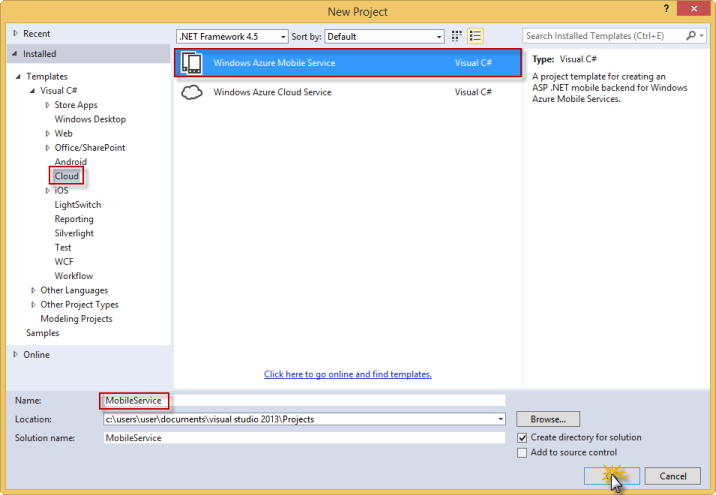
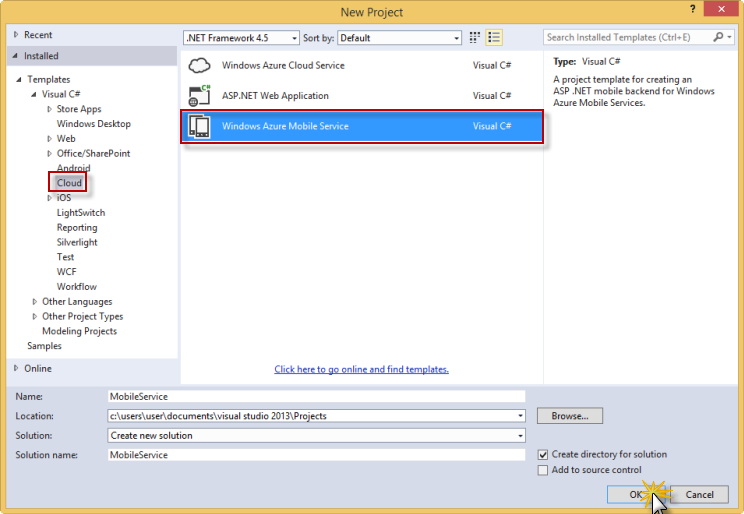
Demo-MobileServices: Updated snippets

diff --git a/Demos/Demo-MobileServices/Demo.md b/Demos/Demo-MobileServices/Demo.md
@@ -178,20 +178,26 @@ This demo is composed of the following segments:
 	
 	_Creating new Project_
 
-3. Make sure that **Visual C# > Cloud** is selected in the **Templates** list. Choose **Windows Azure Mobile Services**, type **MobileService** as the name for the project, and click **OK**.
+3. Make sure that **Visual C# > Cloud** is selected in the **Templates** list. Choose **Windows Azure Mobile Services** and click **OK**.
 
 	![Windows Azure Mobile Services Project](Images/windows-azure-mobile-services-project.png?raw=true)
 	
 	_Cloud > Windows Azure Mobile Service project_
 
-4. Select the **Windows Azure Mobile Service** template and click **OK**.
+4. Select the **Windows Azure Mobile Service** template and explain how this template can be used. **Do not click OK**. Click **Cancel**.
 
 	![New ASP.NET Project](Images/new-aspnet-project.png?raw=true)
-	
+
 	_New ASP.NET Project_
 	
 	> **Speaking Point:** Mention any .NET language can be used to build the Mobile Service right from VS, and the framework is built on top of ASP.NET Web API, which means we get leverage the power of NuGet and all our existing skills and code.
+	
+5. Click **File > Close Solution**, and then **File > Open > Project/Solution...**. Browse to the **source/begin** folder in the demo's folder and open the **MobileService** solution.
 
+	![Open Project](Images/open-project.png?raw=true)
+
+	_Open Begin Solution_
+	
 5. Explain the contents of the project template. Open and explain each one of the following folders: 
 
 	- **Controllers**
@@ -279,21 +285,23 @@ This demo is composed of the following segments:
 	
 	_Manage NuGet Packages_
 
-2. Select the **Online** tab at the left of the dialog, be sure to choose **Include Prerelease** in the combo box at the top, and search for **ADAL**. In the results click install for the **Active Directory Authentication Library**. Click **I Accept** for the License dialog.
+2. Select the **Installed Packages** tab at the left of the dialog and search for **ADAL**. In the results verify the **Active Directory Authentication Library** is installed in the solution. Note this is a Prerelease version. Click **Close**.
 
-	![Adding Active Directory Authentication Library](Images/adding-active-directory-authentication-librar.png?raw=true)
+	![ADAL Library](Images/adal-library.png?raw=true)
 	
-	_Adding Active Directory Authentication Library_
+	_Active Directory Authentication Library is installed_
 
+	> **Speaking Point:** We use the ADAL (Active Directory Authentication Library) to easily provide authentication functionality for a .NET client and Windows Store application.
+	
 3. In the **FacilityRequestController** paste the following highlighted code after the namespace declaration.
 
 	(Code Snippet - _authattrib_)
-
-	<!-- mark:3-5 -->
+	<!-- mark:3-6 -->
 	````C#
 	namespace MobileService.Controllers
 	{
 		using Microsoft.WindowsAzure.Mobile.Service.Security;
+		using MobileService.Common.Providers;
 		
 		[AuthorizeLevel(AuthorizationLevel.User)]
 		public class FacilityRequestController : TableController<FacilityRequest>
@@ -359,7 +367,7 @@ This demo is composed of the following segments:
 
 	> **Speaking Point:** What this app is still missing is support for authentication. So let's go ahead and do that.
 
-10. Replace the code inside the **LoginAsync** method with the following highlighted code.
+10. Place the following highlighted snippet of code in the **LoginAsync** method.
 
 	(Code Snippet - _authclient_)
 	<!-- mark:3-14 -->
@@ -424,20 +432,21 @@ We've added authentication with Active Directory, but what our app users would r
 	
 	_FacilityRequestController_
 
-2. Locate the **PatchFacilityRequest** method and paste the following highlighted code replacing the one inside that method.
+2. Locate the **PatchFacilityRequest** method and replace it with the following snippet.
 
-	(Code Snippet - _sharepoint_)
-	<!-- mark:3-31 -->
+	<!-- (Code Snippet - _sharepoint_);mark:3-31 -->
 	````C#
 	public async Task<FacilityRequest> PatchFacilityRequest(string id, Delta<FacilityRequest> patch)
 	{
-		if (SharePointProvider.SharePointUri == null)
-			Services.Settings.TryGetValue("SharePointUri", out SharePointProvider.SharePointUri);
+		var sharePointUri = SharePointProvider.SharePointUri;
+            if (sharePointUri == null)
+                Services.Settings.TryGetValue("SharePointUri", out sharePointUri);
 
+            SharePointProvider.SharePointUri = sharePointUri;
             var facilityRequest = patch.GetEntity();
 
-            var sharepointUri = SharePointProvider.SharePointUri + string.Format(@"/getfolderbyserverrelativeurl('Documents')/Folders('Requests')/Files/Add(url='{0}.docx', overwrite=true)",
-                                    facilityRequest.DocId);
+            sharePointUri = SharePointProvider.SharePointUri + string.Format(@"/getfolderbyserverrelativeurl('Documents')/Folders('Requests')/Files/Add(url='{0}.docx', overwrite=true)",
+                        facilityRequest.DocId);
 
             string authority;
             string sharePointResource;
@@ -455,7 +464,7 @@ We've added authentication with Active Directory, but what our app users would r
             Services.Settings.TryGetValue("HeaderUri", out headerUri);
             var document = SharePointProvider.BuildDocument(facilityRequest, headerUri);
 
-            await SharePointProvider.UploadFile(sharepointUri, document, token, activeDirectoryClientId);
+            await SharePointProvider.UploadFile(sharePointUri, document, token, activeDirectoryClientId);
 
             return await this.UpdateAsync(id, patch);
 	}	
